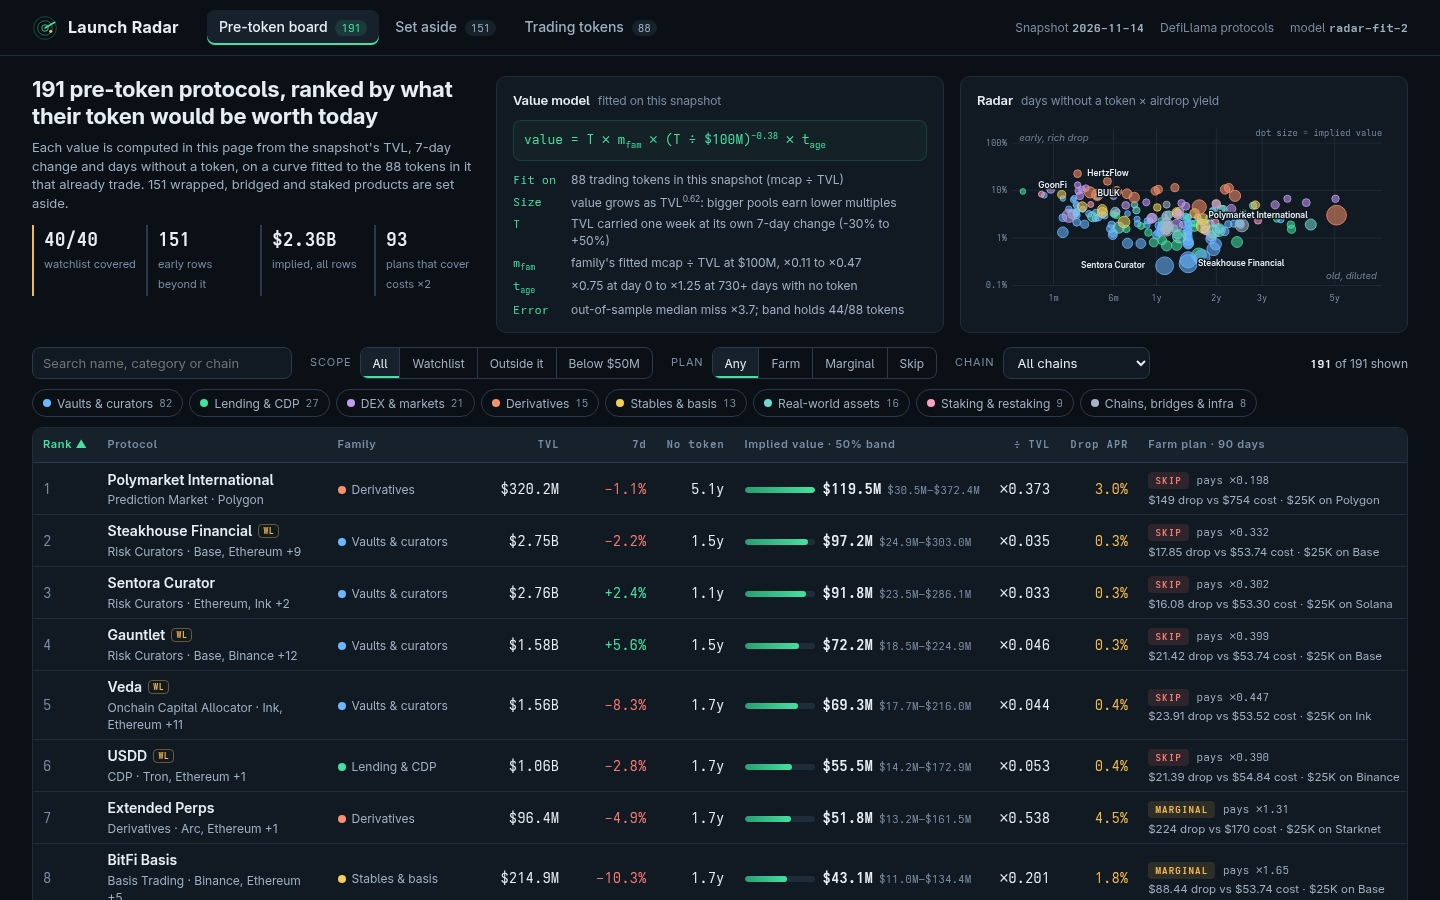
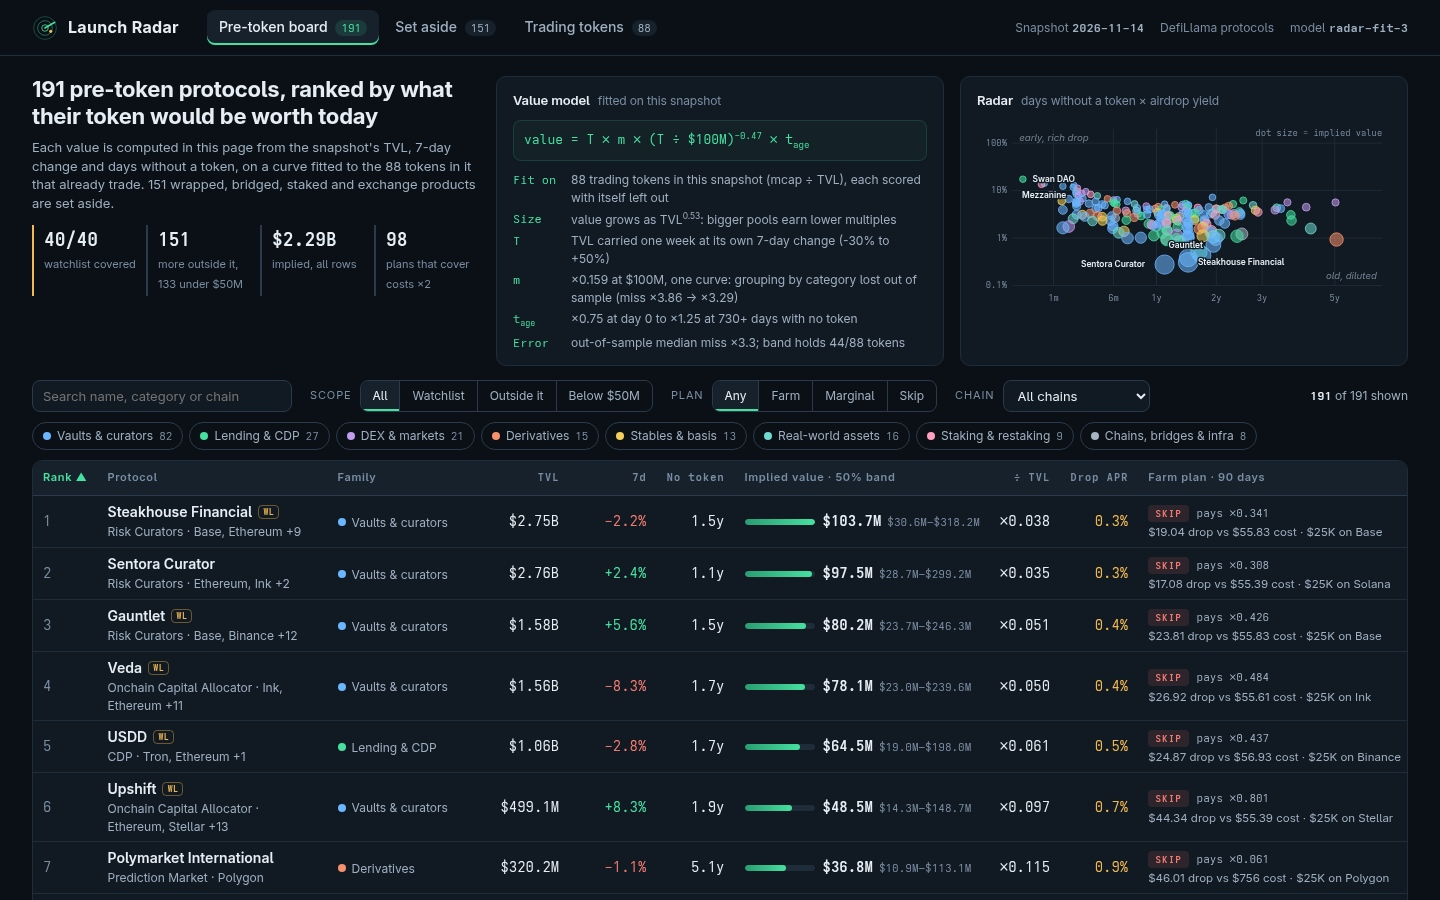
Model choice by leave-one-out error (one size curve wins); decision step with break-even drop share in every plan; label and wording fixes

diff --git a/dashboard/model.js b/dashboard/model.js
@@ -1,24 +1,21 @@
-/* Launch Radar value model. One file, run twice: by main.ts (Node, to write board.json) and by this
- * page (to draw it), so every number on screen is computed here from the snapshot, never typed in.
- *
- *   1. calibrate()  fits value on the snapshot's own protocols whose token already trades:
- *                   ln(mcap/TVL) = a[family] + b * ln(TVL / $100M), b pooled within families,
- *                   a[family] shrunk toward the all-family mean when a family has few peers.
- *   2. score()      applies the fit to every pre-token protocol, with two pre-token adjustments:
- *                   momentum (TVL carried one week forward at its own 7-day change) and
- *                   time without a token (TVL that stayed without a token is worth more).
- *   3. farmPlan()   turns the same figures into steps with a dollar cost and a time each.
- * No protocol name appears in this file: rows differ only by their snapshot figures. */
+/* Launch Radar value model, run by main.ts (board.json) and by the page, so every number on screen
+ * is computed here from the snapshot.
+ *   calibrate()  fits ln(mcap/TVL) = a[family] + b * ln(TVL/$100M) on the snapshot's trading tokens;
+ *                how far families may differ (k) is picked by leave-one-out error.
+ *   value()      applies it to each pre-token protocol: TVL carried a week at its 7-day change,
+ *                then a factor for time without a token.
+ *   farmPlan()   steps with a dollar cost and a time each.
+ * No protocol name appears in this file. */
 (function (root) {
   'use strict';
 
   var DAY = 86400000;
   var M = {
-    version: 'radar-fit-2',
+    version: 'radar-fit-3',
     ref_tvl: 1e8,            // the fit's reference size: $100M of TVL
     ratio_floor: 0.02,       // mcap/TVL outliers are clipped before the fit
     ratio_cap: 20,
-    shrink_k: 4,             // pseudo-peers pulling a thin family toward the all-family mean
+    shrink_options: [0, 1, 2, 4, 8, 16, 32, Infinity], // k: pseudo-peers pulling a family to the mean
     growth_floor: -30,       // 7-day change used for momentum, clipped (per cent)
     growth_cap: 50,
     age_full: 730,           // days without a token for the full +25% staying-power premium
@@ -105,19 +102,25 @@
       var t = tok[k];
       return { p: t.p, tvl: t.tvl, mcap: t.mcap, members: t.members, f: family(t.p), x: Math.log(t.tvl / M.ref_tvl), y: Math.log(clamp(t.mcap / t.tvl, M.ratio_floor, M.ratio_cap)) };
     });
-    var full = fitPoints(pts);
     // Error is measured out of sample and against the real market cap: each token is predicted by a
     // fit that leaves it out (leave-one-out), and its miss is ln(actual mcap / prediction), unclipped.
-    var miss = pts.map(function (q, i) {
-      q.fit = Math.round(predict(full, q));
-      q.loo = predict(fitPoints(pts.filter(function (o, j) { return j !== i; })), q);
-      return Math.log(q.mcap / q.loo);
+    // The family pull k is chosen the same way, from 0 (families stand alone) to Infinity (one curve
+    // for all, size only): the snapshot picks the k with the smallest median out-of-sample miss.
+    function looMiss(k) {
+      return pts.map(function (q, i) { return Math.log(q.mcap / predict(fitPoints(pts.filter(function (o, j) { return j !== i; }), k), q)); });
+    }
+    var trials = M.shrink_options.map(function (k) {
+      var m = looMiss(k);
+      return { k: k, miss: m, median: Math.exp(quantile(m.map(Math.abs).sort(function (u, v) { return u - v; }), 0.5)) };
     });
+    var best = trials.reduce(function (a, t) { return t.median < a.median - 1e-12 ? t : a; });
+    var full = fitPoints(pts, best.k), miss = best.miss;
+    pts.forEach(function (q, i) { q.fit = Math.round(predict(full, q)); q.loo = q.mcap / Math.exp(miss[i]); });
     var sorted = miss.slice().sort(function (u, v) { return u - v; });
     var absMiss = miss.map(Math.abs).sort(function (u, v) { return u - v; });
     var inBand = 0, q25 = quantile(sorted, 0.25), q75 = quantile(sorted, 0.75);
     miss.forEach(function (m) { if (m >= q25 && m <= q75) inBand++; });
-    return { slope: full.b, elasticity: 1 + full.b, base: Math.exp(full.all), families: full.fams, n: pts.length, points: pts,
+    return { k: best.k, trials: trials.map(function (t) { return { k: t.k, median: t.median }; }), slope: full.b, elasticity: 1 + full.b, base: Math.exp(full.all), families: full.fams, n: pts.length, points: pts,
       median_error: Math.exp(quantile(absMiss, 0.5)), band_low: Math.exp(q25), band_high: Math.exp(q75), band_hits: inBand,
       clipped: pts.filter(function (q) { var r = q.mcap / q.tvl; return r < M.ratio_floor || r > M.ratio_cap; }).length };
   }
@@ -125,10 +128,10 @@
   function predict(f, q) { return q.tvl * Math.exp(f.fams[q.f].ln + f.b * q.x); }
 
   /* The least-squares core: a slope pooled within families, then family intercepts shrunk toward the
-   * all-family mean with shrink_k pseudo-peers. */
-  function fitPoints(pts) {
-    var g = {};
-    pts.forEach(function (q) { (g[q.f] = g[q.f] || []).push(q); });
+   * all-family mean with k pseudo-peers; k = Infinity fits one curve for all. */
+  function fitPoints(pts, k) {
+    var g = {}, one = k === Infinity;
+    pts.forEach(function (q) { var f = one ? 'all' : q.f; (g[f] = g[f] || []).push(q); });
     var sxy = 0, sxx = 0;
     Object.keys(g).forEach(function (f) {
       var a = g[f], mx = 0, my = 0;
@@ -142,10 +145,10 @@
     all /= pts.length;
     var fams = {};
     FAMILIES.forEach(function (fd) {
-      var a = g[fd[0]] || [], s = 0;
+      var a = pts.filter(function (q) { return q.f === fd[0]; }), s = 0;
       a.forEach(function (q) { s += q.y - b * q.x; });
       var raw = a.length ? s / a.length : all;
-      var shrunk = (a.length * raw + M.shrink_k * all) / (a.length + M.shrink_k);
+      var shrunk = one ? all : (a.length * raw + k * all) / (a.length + k);
       fams[fd[0]] = { key: fd[0], label: fd[1], peers: a.length, raw: Math.exp(raw), multiple: Math.exp(shrunk), ln: shrunk };
     });
     return { b: b, all: all, fams: fams };
@@ -223,10 +226,10 @@
         { act: fill(act[1]), usd: ACT2[kind](side, tx, weeks), min: kind in WEEKLY ? weeks * 10 : 10, when: kind in WEEKLY ? 'Weeks 1-' + weeks : 'Day 1' },
         { act: 'Once a week for ' + weeks + ' weeks, open the points or rewards page, re-check the position and top it up by one transaction', usd: weeks * tx, min: weeks * 5, when: 'Weeks 1-' + weeks },
         { act: 'Exit if TVL falls below ' + usd(p.tvl_usd * 0.75) + ' (25% under today\'s ' + usd(p.tvl_usd) + ') or the team reports an incident; otherwise hold the full ' + M.farm_days + ' days', usd: 2 * tx, min: 10, when: 'Day ' + M.farm_days },
-        { act: 'At launch claim only through the protocol\'s own app; the model prices the token near ' + usd(v.implied) + ' (band ' + usd(v.low) + '-' + usd(v.high) + '), so sell the claim if it opens above ' + usd(v.high), usd: 2 * tx, min: 15, when: 'At launch' }
+        { act: 'At launch claim only through the protocol\'s own app; the model prices the token near ' + usd(v.implied) + ' (band ' + usd(v.low) + '-' + usd(v.high) + '), so sell the claim if the token opens above ' + usd(v.high) + ' fully diluted', usd: 2 * tx, min: 15, when: 'At launch' }
       ];
     }
-    function total(st) { var c = 0, t = 0; st.forEach(function (s) { c += s.usd; t += s.min; }); return { cost: c, min: t, all: c + t / 60 * M.hour_usd }; }
+    function total(st) { var c = 0, t = 5; st.forEach(function (s) { c += s.usd; t += s.min; }); return { cost: c, min: t, all: c + t / 60 * M.hour_usd }; }
     // Only capital that sits in the protocol earns: the main deposit, plus the side deposit for vaults
     // (a second vault); borrowed, re-used or traded side amounts are activity, not extra capital.
     function eligible(stake) { return kind === 'vault' ? stake + Math.round(stake / 4) : stake; }
@@ -238,13 +241,11 @@
     }
     var st = steps(stake), t = total(st), capital = stake + Math.round(stake / 4), drop = eligible(stake) * perDollar;
     var verdict = drop >= M.target_cover * t.all ? 'farm' : drop >= t.all ? 'marginal' : 'skip';
-    // A plan that does not clear the target says so first, with the drop share that would make it pay.
+    // Every plan opens with its decision: the numbers, and the drop share at which it pays target_cover.
     var needShare = M.drop_share * M.target_cover * t.all / Math.max(drop, 1e-9);
-    if (verdict !== 'farm') {
-      st.unshift({ when: 'Before you start', usd: 0, min: 5, act: 'Decide: at ' + usd(capital) + ' the expected drop of ' + usd(drop) + ' covers the plan\'s ' + usd(t.all) +
-        ' of gas, fees and time ×' + (drop / t.all).toFixed(2) + '; it pays ×' + M.target_cover + ' only if about ' + (needShare * 100).toFixed(needShare < 0.1 ? 1 : 0) +
-        '% of the token goes to depositors (the model assumes ' + M.drop_share * 100 + '%), so ' + (verdict === 'skip' ? 'skip it unless the team announces a larger user allocation' : 'farm it only with funds already on ' + chain) });
-    }
+    st.unshift({ when: 'Before you start', usd: 0, min: 5, act: 'Decide: at ' + usd(capital) + ' the modeled drop of ' + usd(drop) + ' covers the plan\'s ' + usd(t.all) +
+      ' of gas, fees and time (5 min of it this check) ×' + (drop / t.all).toFixed(2) + '; it pays ×' + M.target_cover + ' if at least ' + (needShare * 100).toFixed(1) +
+      '% of the token goes to depositors (the model assumes ' + M.drop_share * 100 + '%), so ' + (verdict === 'farm' ? 'farm it, and re-check if the team announces a smaller user allocation' : verdict === 'skip' ? 'skip it unless the team announces a larger user allocation' : 'farm it only with funds already on ' + chain) });
     return { chain: chain, gas: tx, stake: capital, eligible: eligible(stake), asset: asset, steps: st, cost: t.cost, minutes: t.min, time_usd: t.min / 60 * M.hour_usd, all_in: t.all,
       days: M.farm_days, drop: drop, net: drop - t.all, need_share: needShare, verdict: verdict };
   }

diff --git a/dashboard/app.js b/dashboard/app.js
@@ -109,12 +109,12 @@
   function formula() {
     return `<div class="card model">
       <h2>Value model <span>fitted on this snapshot</span></h2>
-      <p class="eq">value = T × m<sub>fam</sub> × (T ÷ $100M)<sup>${fit.slope.toFixed(2)}</sup> × t<sub>age</sub></p>
+      <p class="eq">value = T × m × (T ÷ $100M)<sup>${fit.slope.toFixed(2)}</sup> × t<sub>age</sub></p>
       <dl>
-        <dt>Fit on</dt><dd>${fit.n} trading tokens in this snapshot (mcap ÷ TVL)</dd>
+        <dt>Fit on</dt><dd>${fit.n} trading tokens in this snapshot (mcap ÷ TVL), each scored with itself left out</dd>
         <dt>Size</dt><dd>value grows as TVL<sup>${fit.elasticity.toFixed(2)}</sup>: bigger pools earn lower multiples</dd>
         <dt>T</dt><dd>TVL carried one week at its own 7-day change (${M.growth_floor}% to +${M.growth_cap}%)</dd>
-        <dt>m<sub>fam</sub></dt><dd>family's fitted mcap ÷ TVL at $100M, ×${Math.min(...Object.values(fit.families).map((f) => f.multiple)).toFixed(2)} to ×${Math.max(...Object.values(fit.families).map((f) => f.multiple)).toFixed(2)}</dd>
+        <dt>m</dt><dd>${fit.k === Infinity ? mult(fit.base) + ' at $100M, one curve: grouping by category lost out of sample' : 'per family, pulled to ' + mult(fit.base) + ' with k=' + fit.k} (miss ×${fit.trials[0].median.toFixed(2)} → ×${fit.median_error.toFixed(2)})</dd>
         <dt>t<sub>age</sub></dt><dd>×${M.age_low} at day 0 to ×${M.age_high} at ${M.age_full}+ days with no token</dd>
         <dt>Error</dt><dd>out-of-sample median miss ×${fit.median_error.toFixed(1)}; band holds ${fit.band_hits}/${fit.n} tokens</dd>
       </dl></div>`;
@@ -144,7 +144,7 @@
         <td class="proto"><a href="${link({ p: r.p.slug })}">${esc(r.p.name)}</a>${r.watch ? '<span class="wl" title="On the snapshot watchlist">WL</span>' : ''}<small>${esc(r.p.category || 'Uncategorised')} · ${esc(r.p.chains.slice(0, 2).join(', '))}${r.p.chains.length > 2 ? ' +' + (r.p.chains.length - 2) : ''}</small></td>
         <td>${famChip(r.v.family)}</td>
         <td class="num">${usd(r.p.tvl_usd)}</td>
-        <td class="num ${r.p.change_7d > 0 ? 'up' : r.p.change_7d < 0 ? 'down' : ''}">${pct(r.p.change_7d)}</td>
+        <td class="num ${r.p.change_7d >= 0.05 ? 'up' : r.p.change_7d <= -0.05 ? 'down' : ''}">${pct(r.p.change_7d)}</td>
         <td class="num${r.v.age == null ? ' est' : ''}" title="${r.v.age == null ? 'No listing date: the median age is used' : 'Listed ' + esc(r.p.listed_at)}">${r.v.age == null ? '~' : ''}${days(r.v.age_used)}</td>
         <td class="val"><span class="bar"><i style="width:${w.toFixed(1)}%"></i></span><b>${usd(r.v.implied)}</b><small>${usd(r.v.low)}–${usd(r.v.high)}</small></td>
         <td class="num">${mult(r.v.multiple)}</td>
@@ -154,10 +154,10 @@
     return `<section class="hero">
       <div class="lead">
         <h1>${rows.length} pre-token protocols, ranked by what their token would be worth today</h1>
-        <p>Each value is computed in this page from the snapshot's TVL, 7-day change and days without a token, on a curve fitted to the ${fit.n} tokens in it that already trade. ${radar.products.length} wrapped, bridged and staked products are set aside.</p>
+        <p>Each value is computed in this page from the snapshot's TVL, 7-day change and days without a token, on a curve fitted to the ${fit.n} tokens in it that already trade. ${radar.products.length} wrapped, bridged, staked and exchange products are set aside.</p>
         <div class="kpis">
           <div><b>${watchCov}/${S.watchlist.length}</b><span>watchlist covered</span></div>
-          <div><b>${rows.length - watchCov}</b><span>early rows beyond it</span></div>
+          <div><b>${rows.length - watchCov}</b><span>more outside it, ${rows.filter((r) => r.below).length} under $50M</span></div>
           <div><b>${usd(total)}</b><span>implied, all rows</span></div>
           <div><b>${farmN}</b><span>plans that cover costs ×${M.target_cover}</span></div>
         </div>
@@ -202,9 +202,9 @@
           <table class="receipt">
             ${line('TVL', 'snapshot tvl_usd', usd(p.tvl_usd))}
             ${line('Momentum ' + pct(v.growth, 2), (v.growth_imputed ? 'change_7d not reported: 0% assumed' : 'change_7d ' + pct(p.change_7d, 2) + ' carried one week, clipped to ' + M.growth_floor + '…+' + M.growth_cap + '%'), '→ ' + usd(v.tvl_next))}
-            ${line('Family multiple', esc(fam.label) + ': ' + fam.peers + ' trading peers, raw ' + mult(fam.raw) + ' shrunk to the all-family ' + mult(fit.base), mult(v.fam_multiple))}
-            ${line('Size curve', '(TVL ÷ $100M)<sup>' + fit.slope.toFixed(2) + '</sup>, slope fitted within families', mult(v.size_mult))}
-            ${line('Fitted token value', 'what a trading peer of this size and family is worth', usd(v.fitted), 'sum')}
+            ${line('Peer multiple at $100M', fit.k === Infinity ? 'one curve for every category: chosen out of sample over per-family multiples (' + esc(fam.label) + ' alone: ' + mult(fam.raw) + ')' : esc(fam.label) + ': ' + fam.peers + ' peers, raw ' + mult(fam.raw) + ' pulled toward ' + mult(fit.base) + ' (k=' + fit.k + ')', mult(v.fam_multiple))}
+            ${line('Size curve', '(TVL ÷ $100M)<sup>' + fit.slope.toFixed(2) + '</sup>, slope fitted on the ' + fit.n + ' tokens', mult(v.size_mult))}
+            ${line('Fitted token value', 'what a trading peer of this size is worth', usd(v.fitted), 'sum')}
             ${line('Time without a token', (v.age == null ? 'no listing date: median ' + v.age_used + ' days used' : v.age + ' days since listing') + '; ×' + M.age_low + '→×' + M.age_high + ' over ' + M.age_full + ' days', mult(v.time_factor))}
             ${line('Implied value', 'rank ' + r.rank + ' of ' + rows.length + ' on this number', usd(v.implied), 'total')}
           </table>
@@ -246,11 +246,11 @@
   }
 
   function trading() {
-    const famRows = R.FAMILIES.map((f) => { const x = fit.families[f[0]]; return `<tr><td>${famChip(f[0])}</td><td class="num">${x.peers}</td><td class="num">${x.peers ? mult(x.raw) : '—'}</td><td class="num"><b>${mult(x.multiple)}</b></td></tr>`; }).join('');
+    const kRows = fit.trials.map((t) => `<tr class="${t.k === fit.k ? 'pick' : ''}"><td>${t.k === Infinity ? 'one curve, size only' : t.k === 0 ? 'each family alone' : 'families, pull k=' + t.k}</td><td class="num">×${t.median.toFixed(2)}</td></tr>`).join('');
     const body = radar.live.map((l) => { const e = l.loo / l.actual; return `<tr><td class="proto"><span class="nm">${esc(l.p.name)}</span><small>${esc(l.p.symbol || '')} · ${esc(l.p.category || '')}</small></td><td>${famChip(l.family)}</td><td class="num">${usd(l.tvl)}${l.members > 1 ? ` <small>${l.members} parts</small>` : ''}</td><td class="num">${usd(l.actual)}</td><td class="num">${mult(l.actual / l.tvl)}</td><td class="num">${usd(l.fit)}</td><td class="num">${usd(l.loo)}</td><td class="num ${e > 2 || e < 0.5 ? 'down' : 'up'}">${mult(e)}</td></tr>`; }).join('');
     return `<section class="intro"><h1>${fit.n} tokens that trade: the model's calibration set</h1>
-      <p>Kept apart from the board: their market already prices them. model.js calibrate() pools the TVL of protocols sharing one token, leaves out exchanges and wrapped, bridged or versioned products, and fits ln(mcap ÷ TVL) on ln(TVL) within each family (slope ${fit.slope.toFixed(3)}, so value grows as TVL<sup>${fit.elasticity.toFixed(2)}</sup>), then shrinks each family's multiple toward the all-family ${mult(fit.base)} with ${M.shrink_k} pseudo-peers. ${radar.listed_only} more protocols record a token with no market cap and sit on neither list.</p></section>
-      <div class="split"><div class="card"><h2>Family multiples at $100M TVL</h2><table class="mini"><thead><tr><th>Family</th><th class="num">Peers</th><th class="num">Raw</th><th class="num">Used</th></tr></thead><tbody>${famRows}</tbody></table>
+      <p>Kept apart from the board: their market already prices them. model.js calibrate() pools the TVL of protocols sharing one token, leaves out exchanges and wrapped, bridged or versioned products, and fits ln(mcap ÷ TVL) on ln(TVL) (slope ${fit.slope.toFixed(3)}: value grows as TVL<sup>${fit.elasticity.toFixed(2)}</sup>). How far category families may differ is chosen by leave-one-out error, at left. ${radar.listed_only} more protocols record a token with no market cap and sit on neither list.</p></section>
+      <div class="split"><div class="card"><h2>Model choice <span>median out-of-sample miss</span></h2><table class="mini"><tbody>${kRows}</tbody></table>
       <p class="note">Out of sample (each token predicted by a fit without it, against its real market cap): median miss ×${fit.median_error.toFixed(2)}; the 50% band ×${fit.band_low.toFixed(2)}–×${fit.band_high.toFixed(2)} holds ${fit.band_hits} of ${fit.n}. ${fit.clipped} extreme ratios are clipped to ×${M.ratio_floor}–×${M.ratio_cap} inside the fit only.</p></div>
       <div class="tablewrap"><table class="board"><thead><tr><th>Protocol</th><th>Family</th><th class="num">TVL</th><th class="num">Market cap</th><th class="num">÷ TVL</th><th class="num">Model fit</th><th class="num">Left-out fit</th><th class="num">÷ market</th></tr></thead><tbody>${body}</tbody></table></div></div>`;
   }

diff --git a/dashboard/app.css b/dashboard/app.css
@@ -68,7 +68,8 @@ main { padding: 20px 32px 24px; max-width: 1440px; margin: 0 auto; }
 .radar .lab { fill: var(--text); font: 600 9.5px var(--sans); paint-order: stroke; stroke: var(--panel); stroke-width: 3px; pointer-events: none; }
 .radar .zone { fill: var(--muted); font: italic 11px var(--sans); opacity: 0.7; }
 .dot { fill-opacity: 0.55; stroke-width: 1; stroke-opacity: 0.9; }
-.dot.off { fill-opacity: 0.06; stroke-opacity: 0.18; }
+.dot.off { fill-opacity: 0.06; stroke-opacity: 0.18; pointer-events: none; }
+.mini tr.pick td { color: var(--accent); font-weight: 600; }
 .radar a:hover .dot { fill-opacity: 1; }
 .f-vault { --c: var(--f-vault); } .f-lend { --c: var(--f-lend); } .f-dex { --c: var(--f-dex); } .f-deriv { --c: var(--f-deriv); }
 .f-stable { --c: var(--f-stable); } .f-rwa { --c: var(--f-rwa); } .f-stake { --c: var(--f-stake); } .f-infra { --c: var(--f-infra); }

diff --git a/README.md b/README.md
@@ -6,9 +6,9 @@
 
 Launch Radar ranks DeFi protocols that record no token by what their token would be worth if their record stayed as it is, and gives each one a farm plan with a dollar cost and a time for every step.
 
-- **Value model** (`dashboard/model.js`): fitted on the snapshot's own protocols whose token trades. `ln(mcap/TVL)` is regressed on `ln(TVL)` within eight category families, family multiples are shrunk toward the all-family mean, and the fit is applied to every pre-token protocol with two adjustments: TVL carried one week at its own 7-day change, and a premium for time without a token.
+- **Value model** (`dashboard/model.js`): fitted on the snapshot's own protocols whose token trades (one point per token). `ln(mcap/TVL)` is regressed on `ln(TVL)`; how far category families may differ is chosen by leave-one-out error against real market caps (on this snapshot one size curve wins). Pre-token protocols get two adjustments: TVL carried one week at its own 7-day change, and a factor for time without a token. The 50% band is the middle half of the out-of-sample misses.
 - **Separation**: pre-token protocols are ranked; wrapped, bridged, staked and exchange products (the snapshot's own watchlist rule, applied to every protocol) are set aside; protocols whose token trades are the calibration set, shown with the model's fit beside their market cap.
-- **Farm plans**: cheapest of the protocol's main chains, capital sized so the expected drop covers gas, fees and hands-on time twice, weekly upkeep, an exit rule from its TVL and a sell rule from the model's band.
+- **Farm plans**: cheapest of the protocol's main chains, a decision step with the drop share needed to break even, capital sized so the expected drop covers gas, fees and hands-on time twice, weekly upkeep, an exit rule from its TVL and a sell rule from the model's band.
 - **Page**: sortable and filterable board (search, family, scope, plan verdict, chain), a detail view per protocol, a radar chart of days without a token against airdrop yield. State lives in the URL hash.
 
 The same `model.js` runs in `main.ts` (to write `board.json`) and in the page, so the board and the screenshots come from one function.
